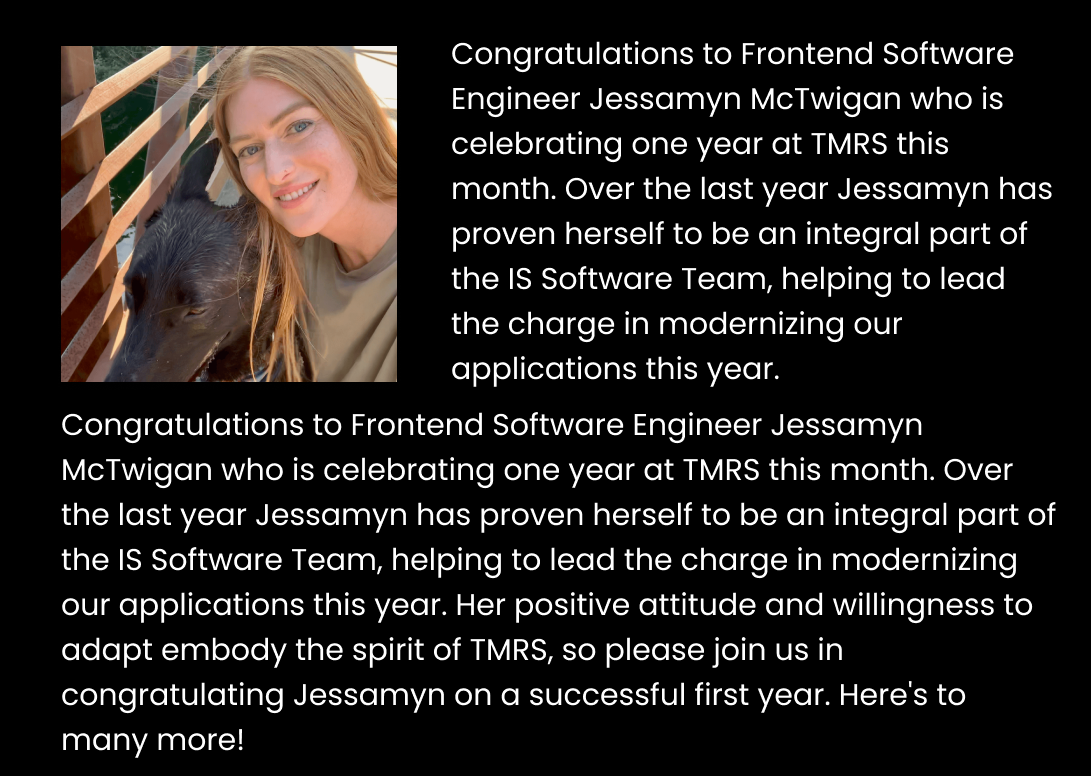
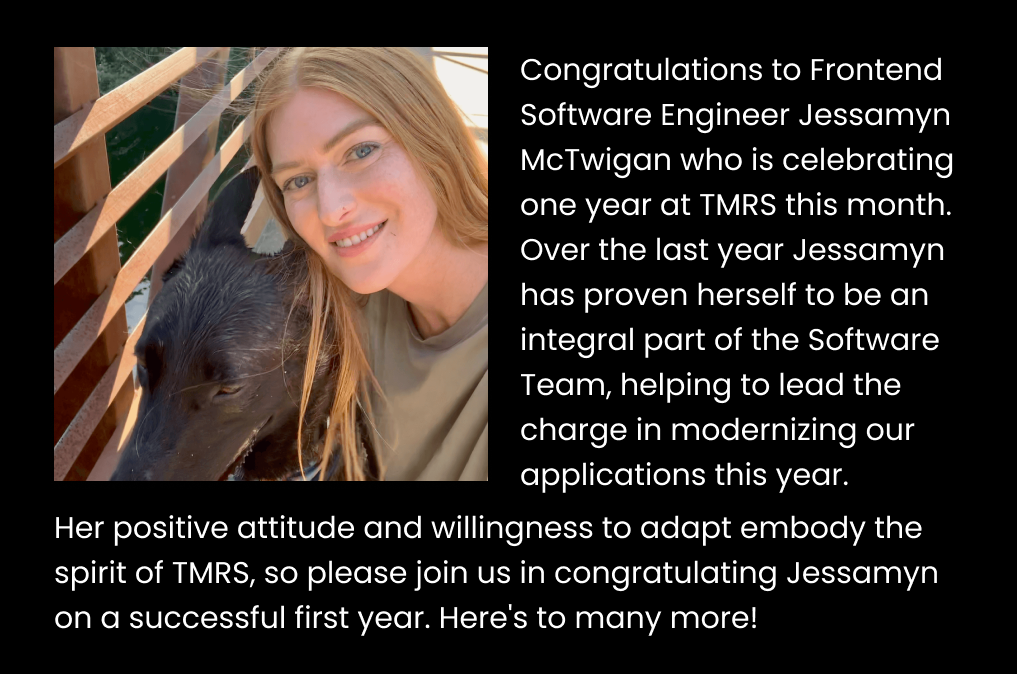
mobile responsive added

diff --git a/src/styles/style.scss b/src/styles/style.scss
@@ -900,9 +900,11 @@
 
             li {
                 display: flex;
+                flex-direction: column;
                 // margin: 50px 0;
                 justify-items: flex-start;
                 padding-top: 50px;
+
 
             }
 
@@ -913,7 +915,7 @@
             }
 
             .image-wrapper {
-                height: 90vh;
+                // height: 90vh;
                 // max-width: 80vw;
             }
 
@@ -928,14 +930,14 @@
                 color: white;
                 display: flex;
                 flex-direction: column;
-                margin: 0 0 0 30px;
+                margin-bottom: 50px;
                 // max-width: 400px;
 
                 p {
                     color: #dfd9d9e9;
                     font-size: 16px;
                     line-height: 1.4;
-                    max-width: 300px;
+                    max-width: 500px;
 
                 }
             }
@@ -979,10 +981,11 @@
     }
 
     img {
-        margin-bottom: 20px;
+        padding: 30px 0;
         text-align: center;
         width: 90%;
     }
+
 
     p {
         color: #afadad;
@@ -1116,6 +1119,30 @@
         .carousel__arrow {
             display: none;
         }
+    }
+
+    .main .portfolio__detail .image-wrapper {
+        height: auto;
+
+    }
+
+    .main .portfolio__detail li {
+        flex-direction: column;
+    }
+
+    .main .portfolio__detail img,
+    .main .portfolio__detail iframe {
+        height: 100%;
+        width: 100%;
+    }
+
+    .main .portfolio__detail {
+        max-width: 400px;
+        overflow-x: hidden;
+    }
+
+    .main .portfolio__detail #spotlight img {
+        height: auto;
     }
 }
 

diff --git a/src/styles/style.css b/src/styles/style.css
@@ -962,14 +962,12 @@ p {
 }
 .main .portfolio__detail li {
   display: flex;
+  flex-direction: column;
   justify-items: flex-start;
   padding-top: 50px;
 }
 .main .portfolio__detail #spotlight img {
   height: 370px;
-}
-.main .portfolio__detail .image-wrapper {
-  height: 90vh;
 }
 .main .portfolio__detail img {
   height: 90vh;
@@ -978,13 +976,13 @@ p {
   color: white;
   display: flex;
   flex-direction: column;
-  margin: 0 0 0 30px;
+  margin-bottom: 50px;
 }
 .main .portfolio__detail--text p {
   color: rgba(223, 217, 217, 0.9137254902);
   font-size: 16px;
   line-height: 1.4;
-  max-width: 300px;
+  max-width: 500px;
 }
 
 .portfolio,
@@ -1018,7 +1016,7 @@ p {
   margin-bottom: 100px;
 }
 .bio img {
-  margin-bottom: 20px;
+  padding: 30px 0;
   text-align: center;
   width: 90%;
 }
@@ -1095,6 +1093,24 @@ p {
   }
   .main .carousel__arrow {
     display: none;
+  }
+  .main .portfolio__detail .image-wrapper {
+    height: auto;
+  }
+  .main .portfolio__detail li {
+    flex-direction: column;
+  }
+  .main .portfolio__detail img,
+  .main .portfolio__detail iframe {
+    height: 100%;
+    width: 100%;
+  }
+  .main .portfolio__detail {
+    max-width: 400px;
+    overflow-x: hidden;
+  }
+  .main .portfolio__detail #spotlight img {
+    height: auto;
   }
 }
 @media screen and (max-width: 768px) {
